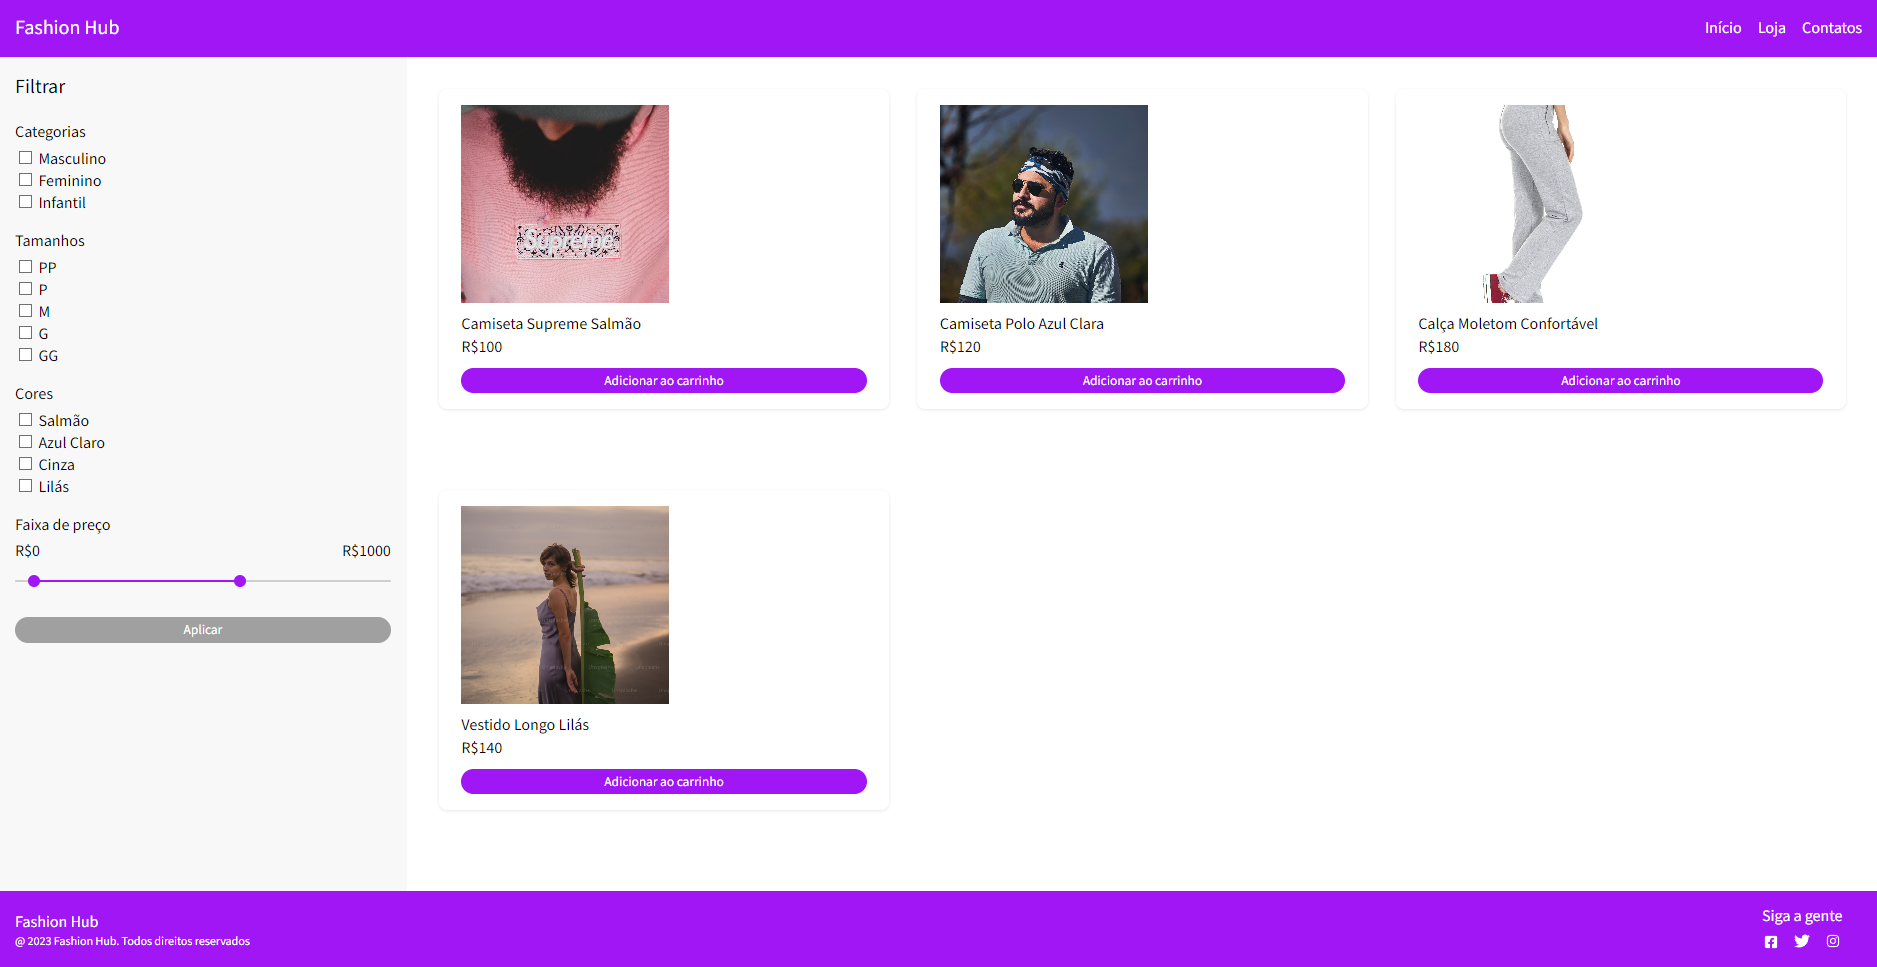
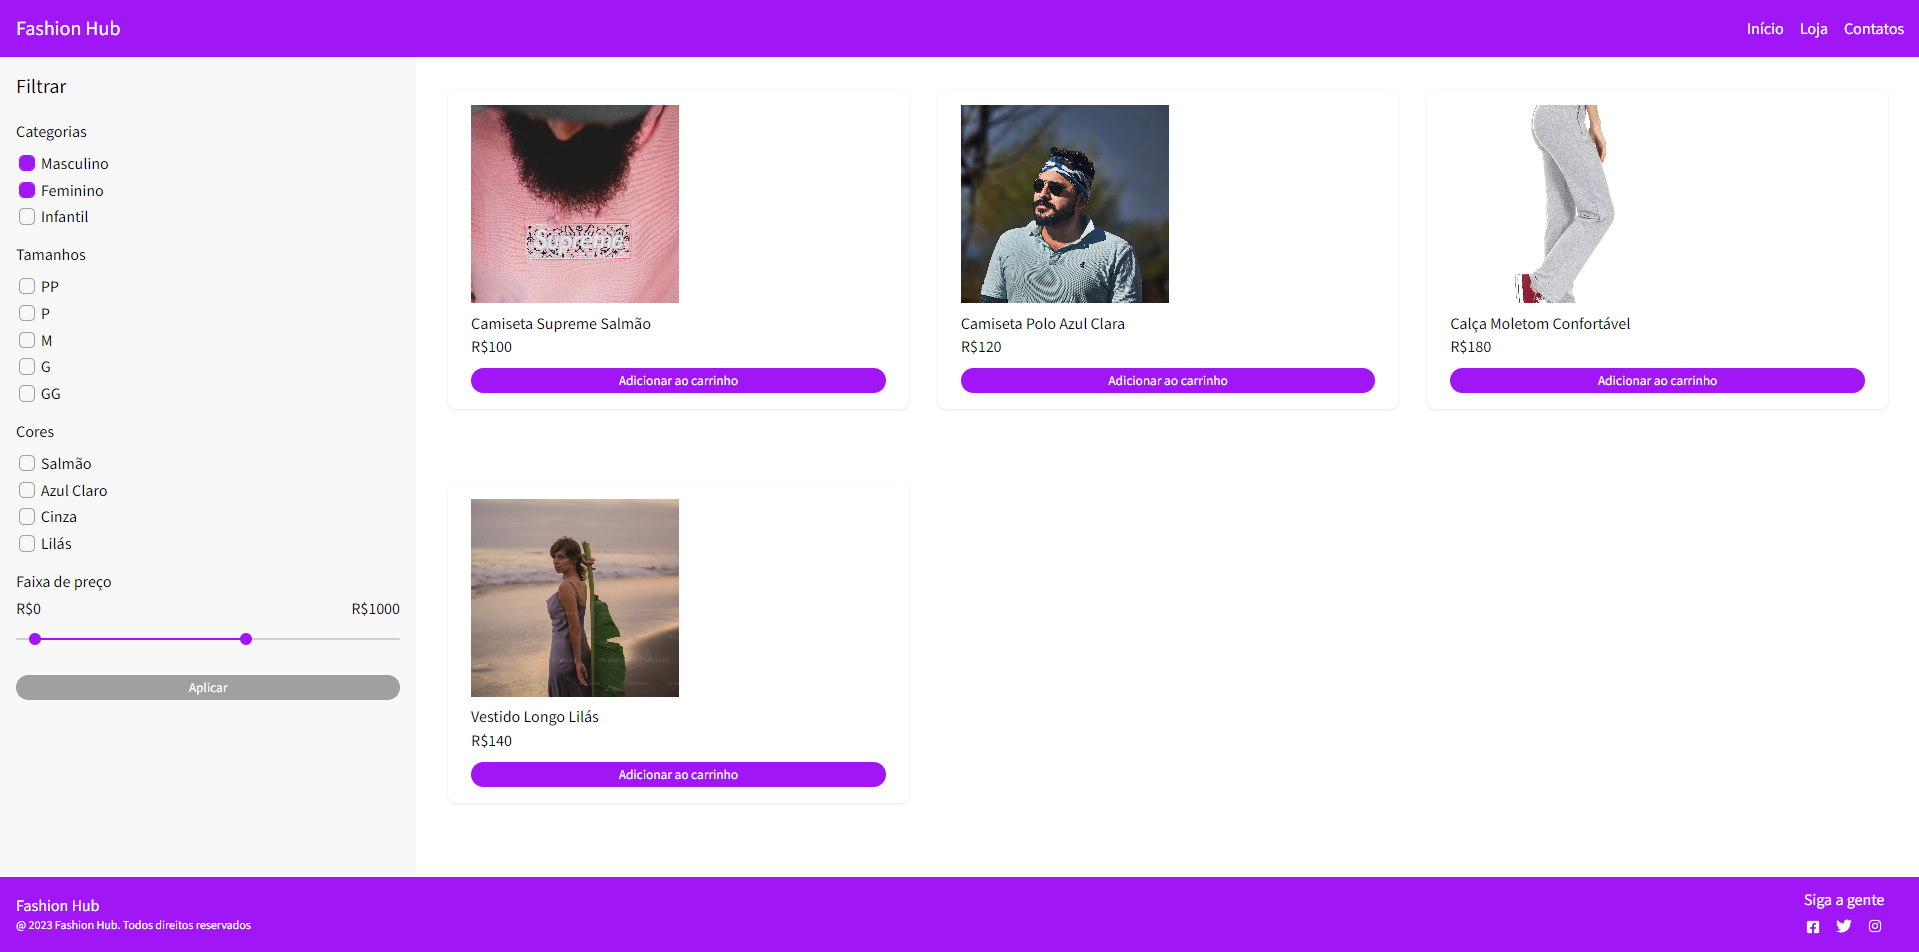
Clean code adjustments

diff --git a/client/src/components/FilterForm/FilterForm.tsx b/client/src/components/FilterForm/FilterForm.tsx
@@ -7,18 +7,22 @@ import FilterProps from '../../types/FilterProps';
 import { Slider } from '@mui/material';
 
 export default function FilterForm() {
-    const { products, setProducts, filteredProducts, setFilteredProducts } = useProducts();
+    const { products, filteredProducts, setFilteredProducts } = useProducts();
     const [rangeValue, setRangeValue] = useState([50, 600])
 
     function handleFilterData(filter: FilterProps) {
-        console.log(filter.price);
+        // console.log(filter.price);
+        console.log(products)
         if (products !== null) {
             if (filter.category.length > 0 || filter.color.length > 0) {
                 setFilteredProducts(products.filter((product) => 
                     (filter.price[0] < product.price && filter.price[1] > product.price) && // Aplica o filtro sobre os itens dentro da faixa de preço
-                    (filter.category.includes(product.category) || // Aplica o filtro sobre o item caso a categoria seja selecionada
-                    filter.category.length === 0 && filter.color.includes(product.color)) // Caso a cor seja selecionada porém a categoria selecionada não pertença ao produto, ele não aparece
-                ));
+                    (
+                      (filter.category.includes(product.category) && filter.color.length === 0) || // Filto para apenas as categorias selecionadas
+                      (filter.category.length === 0 && filter.color.includes(product.color)) || // Filtro para apenas as cores selecionadas
+                      (filter.category.includes(product.category) && filter.color.includes(product.color)) // Filtro para ambas as categorias e cores selecionadas
+                    )
+                  ));
             } else { // Caso nenhum filto esteja selecionado, aplica apenas sobre a faixa de preço
                 setFilteredProducts(products.filter((product) => 
                     (filter.price[0] < product.price && filter.price[1] > product.price)
@@ -38,7 +42,7 @@ export default function FilterForm() {
             price: rangeValue
         }
         
-        console.log(payload);
+        console.log(Object.fromEntries(formData.entries()));
         handleFilterData(payload);
     }
 
@@ -56,48 +60,56 @@ export default function FilterForm() {
           <form onSubmit={handleSubmitForm}>
             <div className="Categories">
               <p>Categorias</p>
-              <input
-                type="checkbox"
-                id="category1"
-                name="category"
-                value="Masculino"
-              />
-              <label>Masculino</label>
-              <br />
-              <input
-                type="checkbox"
-                id="category2"
-                name="category"
-                value="Feminino"
-              />
-              <label>Feminino</label>
-              <br />
-              <input
-                type="checkbox"
-                id="category3"
-                name="category"
-                value="Infantil"
-              />
-              <label>Infantil</label>
-              <br />
+              <div className="Check-input">
+                <input
+                  type="checkbox"
+                  id="category1"
+                  name="category"
+                  value="Masculino"
+                />
+                <label>Masculino</label>
+              </div>
+              <div className="Check-input">
+                <input
+                  type="checkbox"
+                  id="category2"
+                  name="category"
+                  value="Feminino"
+                />
+                <label>Feminino</label>
+              </div>
+              <div className="Check-input">
+                <input
+                  type="checkbox"
+                  id="category3"
+                  name="category"
+                  value="Infantil"
+                />
+                <label>Infantil</label>
+              </div>
             </div>
             <div className="Sizes">
               <p>Tamanhos</p>
+              <div className="Check-input">
               <input type="checkbox" id="size1" name="size" value="PP" />
               <label>PP</label>
-              <br />
+              </div>
+              <div className="Check-input">
               <input type="checkbox" id="size2" name="size" value="P" />
               <label>P</label>
-              <br />
+              </div>
+              <div className="Check-input">
               <input type="checkbox" id="size3" name="size" value="M" />
               <label>M</label>
-              <br />
+              </div>
+              <div className="Check-input">
               <input type="checkbox" id="size4" name="size" value="G" />
               <label>G</label>
-              <br />
+              </div>
+              <div className="Check-input">
               <input type="checkbox" id="size5" name="size" value="GG" />
               <label>GG</label>
-              <br />
+              </div>
             </div>
             <div className="Colors">
               <p>Cores</p>
@@ -113,7 +125,7 @@ export default function FilterForm() {
                   // Retorna o componente para cada cor
                   .map((color, index) => {
                       return (
-                        <div key={index}>
+                        <div key={index} className="Check-input">
                           <input
                             type="checkbox"
                             id={`color${index}`}

diff --git a/client/src/App.css b/client/src/App.css
@@ -1,5 +1,18 @@
 @import url('https://fonts.googleapis.com/css2?family=Source+Sans+3:ital,wght@0,200..900;1,200..900&display=swap');
 
+:root {
+  --purple: #A016F4;
+  --dark-purple: #6f0dac;
+  --gray: #a0a0a0;
+  --light-gray: #c0c0c0;
+}
+
+* {
+  -moz-appearance:none;
+  -webkit-appearance:none;
+  -o-appearance:none;
+}
+
 .App {
   display: flex;
   flex-direction: column;
@@ -31,63 +44,13 @@ button:hover {
   cursor: pointer;
 }
 
-input[type="range"] {
-  -webkit-appearance: none;
-  appearance: none; 
-  width: 100%;
-  cursor: pointer;
-  outline: none;
-  border-radius: 15px;
-  height: 6px;
-  background: #ccc;
-}
-
-input[type="range"]::-webkit-slider-thumb {
-  -webkit-appearance: none;
-  appearance: none; 
-  height: 15px;
-  width: 15px;
-  background-color: #A016F4;
-  border-radius: 50%;
-  border: none;
-  transition: .2s ease-in-out;
-}
-
-input[type="range"]::-moz-range-thumb {
-  height: 15px;
-  width: 15px;
-  background-color: #f50;
-  border-radius: 50%;
-  border: none;
-  transition: .2s ease-in-out;
-}
-
-input[type="range"]::-webkit-slider-thumb:hover {
-  box-shadow: 0 0 0 10px #9f16f413
-}
-input[type="range"]:active::-webkit-slider-thumb {
-  box-shadow: 0 0 0 13px #9f16f42d
-}
-input[type="range"]:focus::-webkit-slider-thumb {
-  box-shadow: 0 0 0 13px #9f16f42d
-}
-
-input[type="range"]::-moz-range-thumb:hover {
-  box-shadow: 0 0 0 10px rgba(255,85,0, .1)
-}
-input[type="range"]:active::-moz-range-thumb {
-  box-shadow: 0 0 0 13px rgba(255,85,0, .2)
-}
-input[type="range"]:focus::-moz-range-thumb {
-  box-shadow: 0 0 0 13px rgba(255,85,0, .2)    
-}
 
 
 header {
   min-height: 2rem;
   height: 6%;
   padding-inline: 1rem;
-  background-color: #A016F4;
+  background-color: var(--purple);
   display: flex;
   flex-direction: row;
   justify-content: space-between;
@@ -136,7 +99,7 @@ footer {
   min-height: 2.5rem;
   height: 8%;
   padding-inline: 1rem;
-  background-color: #A016F4;
+  background-color: var(--purple);
   color: white;
   display: flex;
   flex-direction: row;

diff --git a/client/src/components/FilterForm/FilterForm.css b/client/src/components/FilterForm/FilterForm.css
@@ -14,13 +14,21 @@
     font-size: 1.25rem;
     margin-bottom: 1.25rem;
   }
+
+
   
   .Filter-options form {
     display: flex;
     flex-direction: column;
     gap: 1rem;
   }
-  
+
+  .Categories, .Sizes, .Colors {
+    display: flex;
+    flex-direction: column;
+    gap: 0.3rem;
+  } 
+
   .Filter-options form div p {
     margin-bottom: 0.3rem;
     font-size: 1rem;
@@ -36,12 +44,16 @@
     border-radius: 24px;
     padding: 0.2rem;
     font-family: "Source Sans 3", sans-serif;
-    background-color: #a0a0a0;
+    background-color: var(--gray);
   }
   
   .Filter-options form button:hover {
     cursor: pointer;
-    background-color: #c0c0c0;
+    background-color: var(--light-gray);
+  }
+
+  .Check-input {
+    display: flex;
   }
   
   .Price-range div {
@@ -57,4 +69,20 @@
   
   .Price-range div p {
     font-Size: 0.9rem;
+  }
+
+  .Filter-options input[type="checkbox"] {
+    outline: 1px solid var(--gray);
+    border-radius: 4px;
+    width: 0.9rem;
+    height: 0.9rem;
+  }
+
+  .Filter-options input[type="checkbox"]:hover {
+    outline: 1px solid var(--purple);
+  }
+
+  .Filter-options input[type="checkbox"]:checked {
+    outline: 1px solid var(--purple);
+    background-color: var(--purple);
   }

diff --git a/client/src/App.tsx b/client/src/App.tsx
@@ -1,4 +1,4 @@
-import React, { useEffect, useState } from 'react';
+import React, { useEffect } from 'react';
 
 import Api from './services/api';
 
@@ -10,17 +10,12 @@ import instagramIcon from "./images/Icon instagram.png";
 
 import ProductCard from "./components/ProductCard/ProductCard";
 
-import ProductCardProps from './types/ProductCardProps';
-
-import FilterProps from './types/FilterProps';
-
 import { useProducts } from './context/Products';
 
-import { Provider } from './context/Products';
 import FilterForm from './components/FilterForm/FilterForm';
 
+
 function App() {
-  // const [products, setProducts] = useState<ProductCardProps[] | null>(null)
   const { products, setProducts, filteredProducts, setFilteredProducts } = useProducts();
 
   useEffect(() => {

diff --git a/client/src/services/api.js b/client/src/services/api.js
@@ -1,13 +1,7 @@
 import axios from 'axios'
 
-// import dotenv from 'dotenv'
-
-// dotenv.config({path: "../../../.env"})
-
-
 const Api = axios.create({
-    // baseURL: `http://${process.env.DB_HOST}:${process.env.PORT}/API`
-    baseURL: `http://localhost:3005/API`
+    baseURL: process.env.REACT_APP_API_URL
 })
 
 export default Api

diff --git a/client/src/components/ProductCard/ProductCard.css b/client/src/components/ProductCard/ProductCard.css
@@ -19,13 +19,13 @@
 }
 
 .Product-card button {
-    background-color: #A016F4;
+    background-color: var(--purple);
     width: 100%;
     margin-top: 0.5rem;
 }
 
 .Product-card button:hover {
-    background-color: #6f0dac;
+    background-color: var(--dark-purple);
 }
 
 .Product-image {

diff --git a/client/src/context/Products.tsx b/client/src/context/Products.tsx
@@ -1,7 +1,6 @@
 import React, { ReactNode, createContext, useContext, useState } from 'react';
 
 import ProductCardProps from '../types/ProductCardProps';
-import FilterProps from '../types/FilterProps';
 
 interface ProductContextProps {
     products: ProductCardProps[] | null;

diff --git a/README.md b/README.md
@@ -12,14 +12,12 @@
   - MySQL
   - Axios
 
-# Como instalar
-- Crie o arquivo .env
+# Como instalar e iniciar
+- Crie o arquivo .env nas pastas "client" e "server"
 
-`touch env`
+- Adicione as variáveis de ambiente no arquivo .env de acordo com o arquivo example.env
 
-- Adicione as variáveis de ambiente de acordo com o arquivo example.env
-
-- No MySQL, crie um Schema com o mesmo nome da variável que configurou em DB_NAME na .env
+- No MySQL, crie um Schema com o mesmo nome da variável que configurou em DB_NAME nas .env
     - Crie uma Table com o nome "products" e as colunas "id, name, price, color, category, imgUrl"
 
 - No diretório principal, execute os seguintes comandos em ordem:
